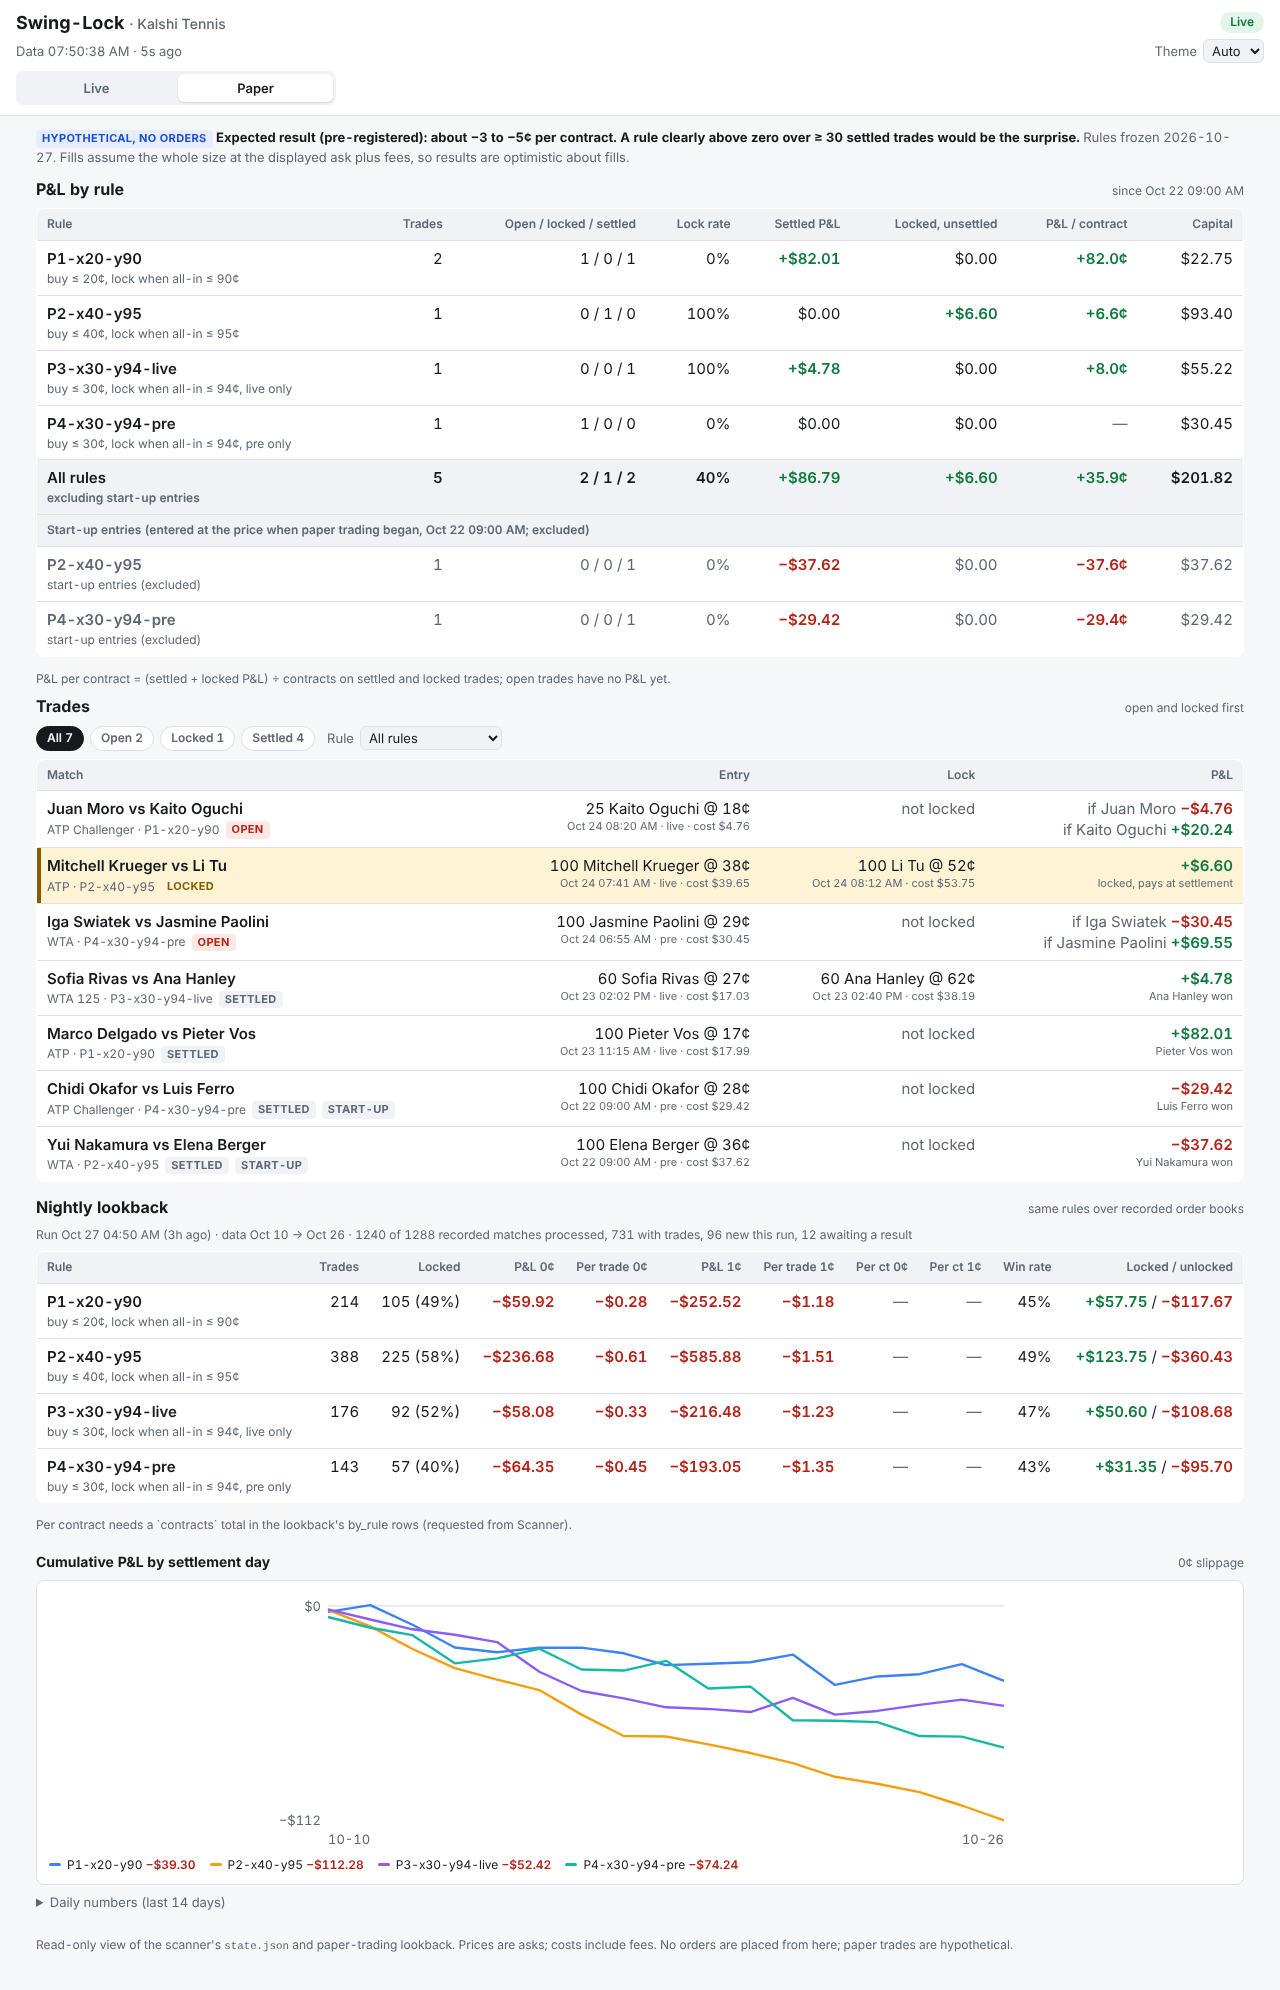
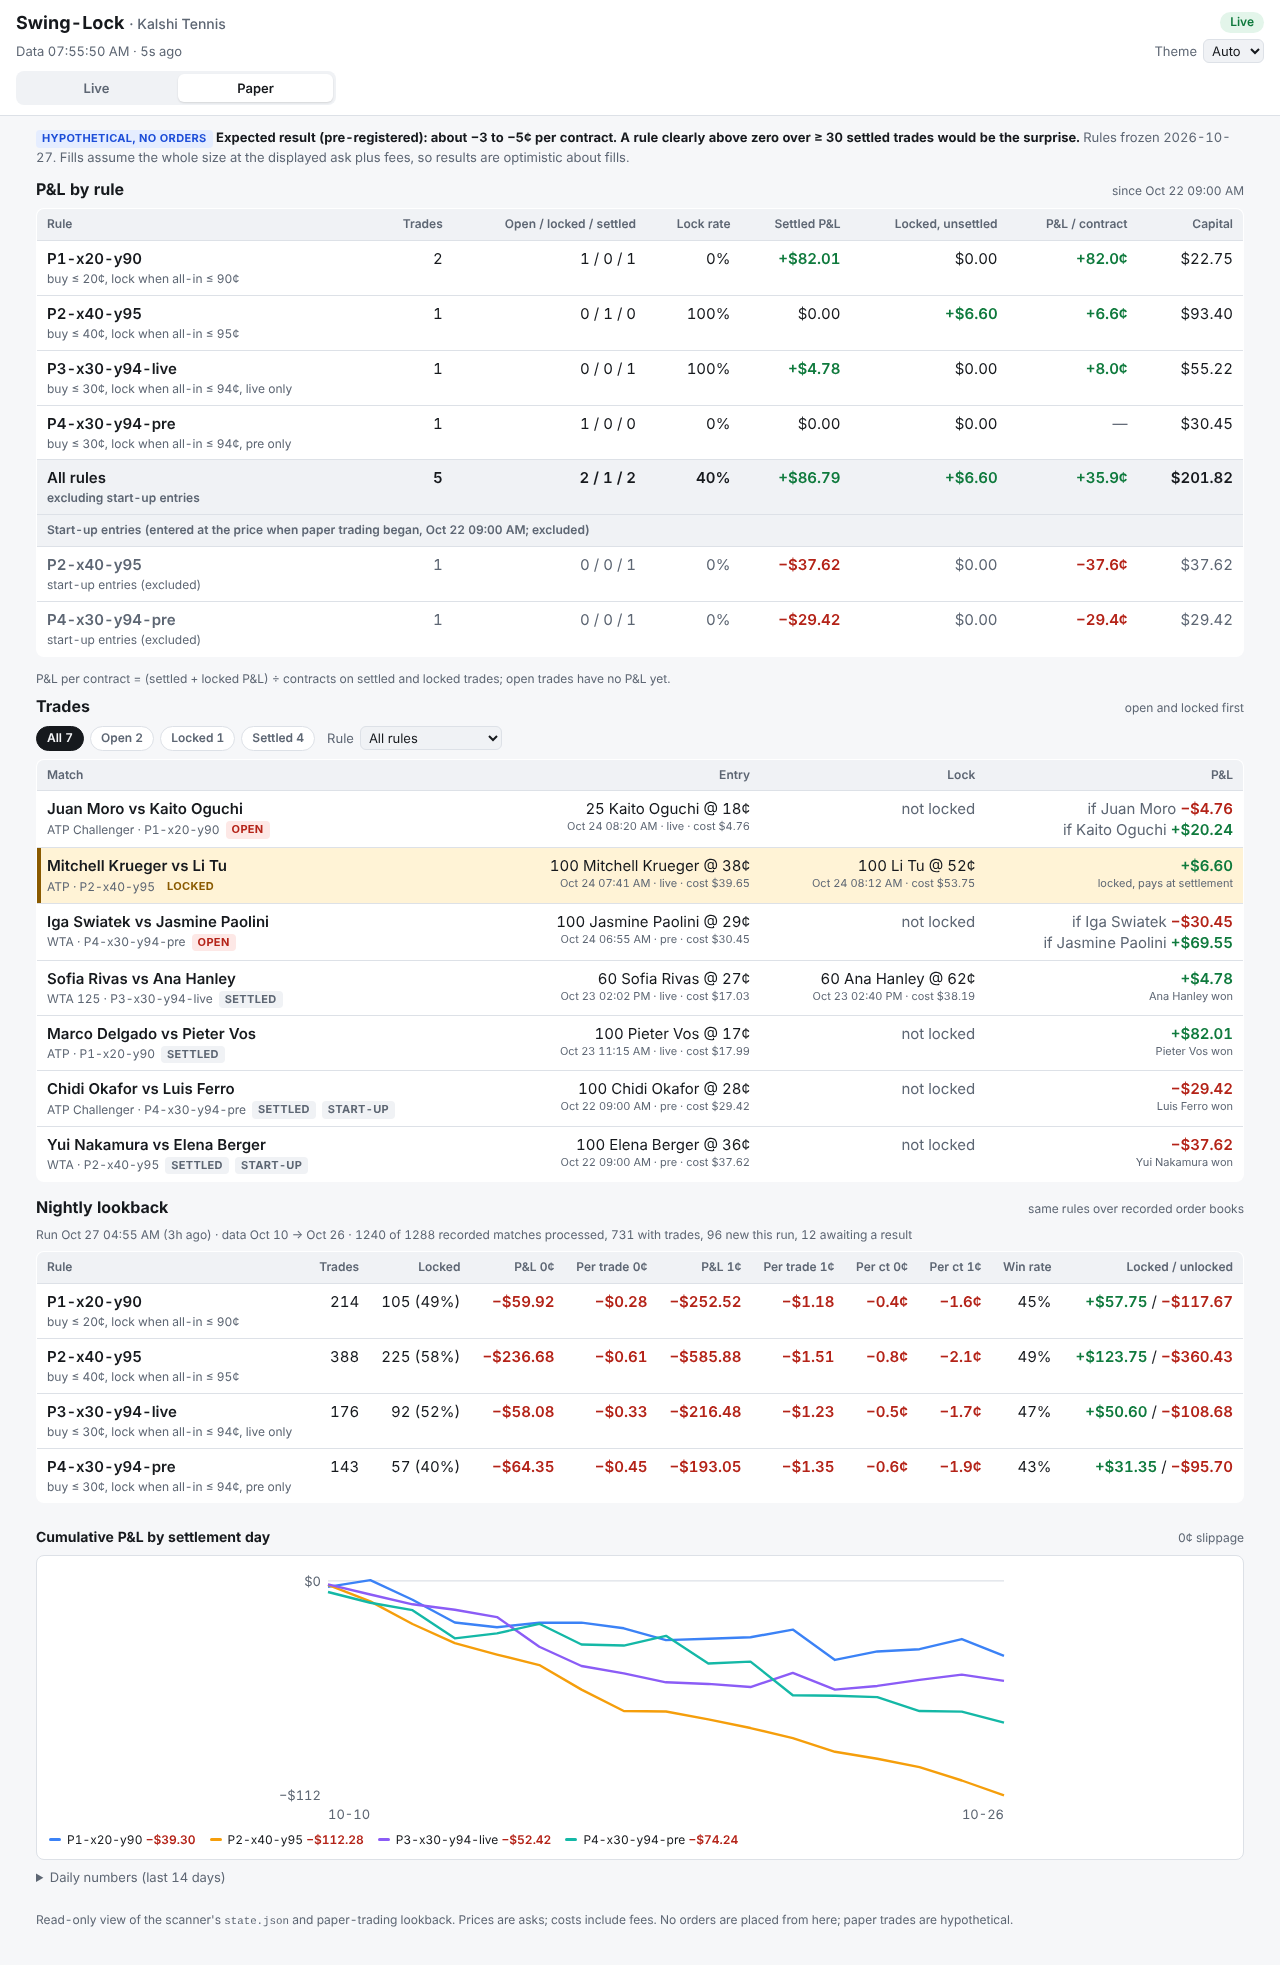
Dashboard Paper tab: samples carry 'contracts' (Scanner #119); contract test tolerates it until #119 merges
Claude-Session: https://claude.ai/code/session_01W1DSUJuc7wQcHRTpWk2cX2

diff --git a/swinglock/dashboard/static/app.js b/swinglock/dashboard/static/app.js
@@ -557,7 +557,7 @@ function lookbackSection() {
   out.push(table("lookback", [["Rule"], ["Trades", 1], ["Locked", 1], ["P&L 0¢", 1], ["Per trade 0¢", 1], ["P&L 1¢", 1],
     ["Per trade 1¢", 1], ["Per ct 0¢", 1], ["Per ct 1¢", 1], ["Win rate", 1], ["Locked / unlocked", 1]], trs));
   if (objs(L.by_rule).length && !objs(L.by_rule).some((b) => isNum(b.contracts))) {
-    out.push(el("p", { class: "meta-line" }, "Per contract needs a `contracts` total in the lookback's by_rule rows (requested from Scanner)."));
+    out.push(el("p", { class: "meta-line" }, "Per contract needs a `contracts` total in the lookback's by_rule rows (scanner update phat-d0/Tennis_Model#119)."));
   }
 
   const days = objs(L.by_day);

diff --git a/tests/test_dashboard.py b/tests/test_dashboard.py
@@ -117,7 +117,9 @@ def test_static_is_self_contained_and_read_only():
 RULE_KEYS = {"id", "x", "y", "entry_phase", "min_entry_ask", "min_minutes_from_start", "max_minutes_from_start",
              "contracts", "mode"}
 BY_RULE_KEYS = {"rule", "trades", "open", "locked", "settled", "lock_rate", "pnl_settled", "pnl_locked_unsettled",
-                "capital"}
+                "capital", "contracts"}
+# `contracts` (total entered) comes with phat-d0/Tennis_Model#119; until it's on main, Scanner's output may lack it.
+NEW_KEYS = {"contracts"}
 TRADE_KEYS = {"trade_id", "rule", "match_id", "series", "tier", "player_a", "player_b", "side", "status", "entry_ts",
               "entry_phase", "entry_ask", "entry_source", "contracts", "entry_cost", "lock_ts", "lock_ask",
               "lock_source", "lock_contracts", "lock_cost", "settle_ts", "settle_a", "settle_b", "pnl", "pnl_if_a",
@@ -126,7 +128,7 @@ LB_KEYS = {"generated_at", "source", "data_from", "data_to", "matches_recorded",
            "matches_with_trades", "matches_new_this_run", "matches_awaiting_result", "settlement_requests",
            "rules", "by_rule", "by_day"}
 LB_RULE_KEYS = {"rule", "slippage", "trades", "locked", "lock_rate", "pnl", "pnl_per_trade", "win_rate",
-                "pnl_locked", "pnl_unlocked", "capital"}
+                "pnl_locked", "pnl_unlocked", "capital", "contracts"}
 
 
 def test_sample_paper_matches_contract(sample):
@@ -364,17 +366,18 @@ def test_paper_tab_with_lookback(serve, tmp_path):
         p = res["paper"]
         assert p["lookbackRows"] == len(lb["rules"]) and p["days"] == 14 and p["notes"] == []
         assert p["chart"] and p["chartLines"] == len(lb["rules"])
-        assert set(p["lbPerCt"]) == {"—"} and any("needs a `contracts` total" in m for m in p["metaLines"])
-    # once Scanner sends `contracts` per by_rule row, per contract = P&L / contracts
-    lb["generated_at"] = _fresh(3)
-    for b in lb["by_rule"]:
-        b["contracts"] = b["trades"] * 50.0
-    lbf.write_text(json.dumps(lb))
+        assert "—" not in p["lbPerCt"] and not any("needs a `contracts` total" in m for m in p["metaLines"])
     want = [f"{'+' if b['pnl'] > 0 else '−'}{abs(b['pnl'] / b['contracts'] * 100):.1f}¢"
             for b in lb["by_rule"] if b["slippage"] == 0.0]
     for res in _run_check(serve(state, lbf)):
         assert res["paper"]["lbPerCt"] == want
-        assert not any("needs a `contracts` total" in m for m in res["paper"]["metaLines"])
+    # an older lookback without `contracts`: dashes and a note
+    for b in lb["by_rule"]:
+        b.pop("contracts")
+    lbf.write_text(json.dumps(lb))
+    for res in _run_check(serve(state, lbf)):
+        assert set(res["paper"]["lbPerCt"]) == {"—"}
+        assert any("needs a `contracts` total" in m for m in res["paper"]["metaLines"])
     lb["generated_at"] = _fresh(60)
     lbf.write_text(json.dumps(lb))
     for res in _run_check(serve(state, lbf)):
@@ -425,12 +428,12 @@ def test_contract_matches_scanner_output(sample, tmp_path):
     mine = sample["paper"]
     assert set(paper) == set(mine)
     assert set(paper["rules"][0]) == set(mine["rules"][0]) == RULE_KEYS
-    assert set(paper["by_rule"][0]) == set(mine["by_rule"][0]) == BY_RULE_KEYS
+    assert set(paper["by_rule"][0]) | NEW_KEYS == set(mine["by_rule"][0]) == BY_RULE_KEYS
     assert set(paper["trades"][0]) == set(mine["trades"][0]) == TRADE_KEYS
     assert [r["id"] for r in paper["rules"]] == [r["id"] for r in mine["rules"]]   # same frozen rules
     mine_lb = json.loads(SAMPLE_LOOKBACK.read_text())
     assert set(lb) == set(mine_lb) == LB_KEYS
-    assert set(lb["by_rule"][0]) == set(mine_lb["by_rule"][0]) == LB_RULE_KEYS
+    assert set(lb["by_rule"][0]) | NEW_KEYS == set(mine_lb["by_rule"][0]) == LB_RULE_KEYS
     assert set(lb["by_day"][0]) == set(mine_lb["by_day"][0])
 
 

diff --git a/docs/ui_dashboard.md b/docs/ui_dashboard.md
@@ -68,7 +68,7 @@ A "Live | Paper" switch under the header (`#paper` in the URL). The Paper view r
 - **Nightly lookback:**
   - run time, data range and match counts;
   - per rule at 0¢ and 1¢: trades, locked (rate), P&L, P&L per trade, **P&L per contract** (needs a `contracts` total in
-    each by_rule row, requested from Scanner; until then a note says so), win rate, locked / unlocked P&L;
+    each by_rule row, added by phat-d0/Tennis_Model#119; an older file shows dashes and a note), win rate, locked / unlocked P&L;
   - a **cumulative P&L chart by settlement day** (inline SVG, one line per rule), with the daily numbers in a
     collapsible table;
   - a warning when the run is over 36 h old.
